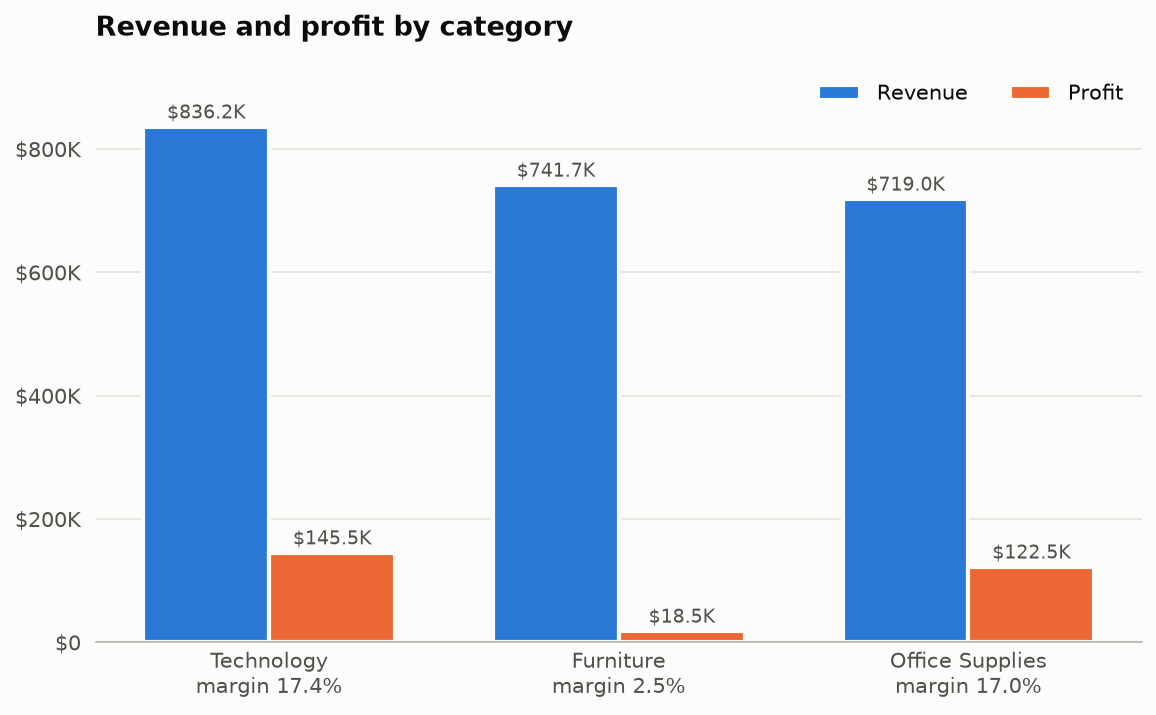
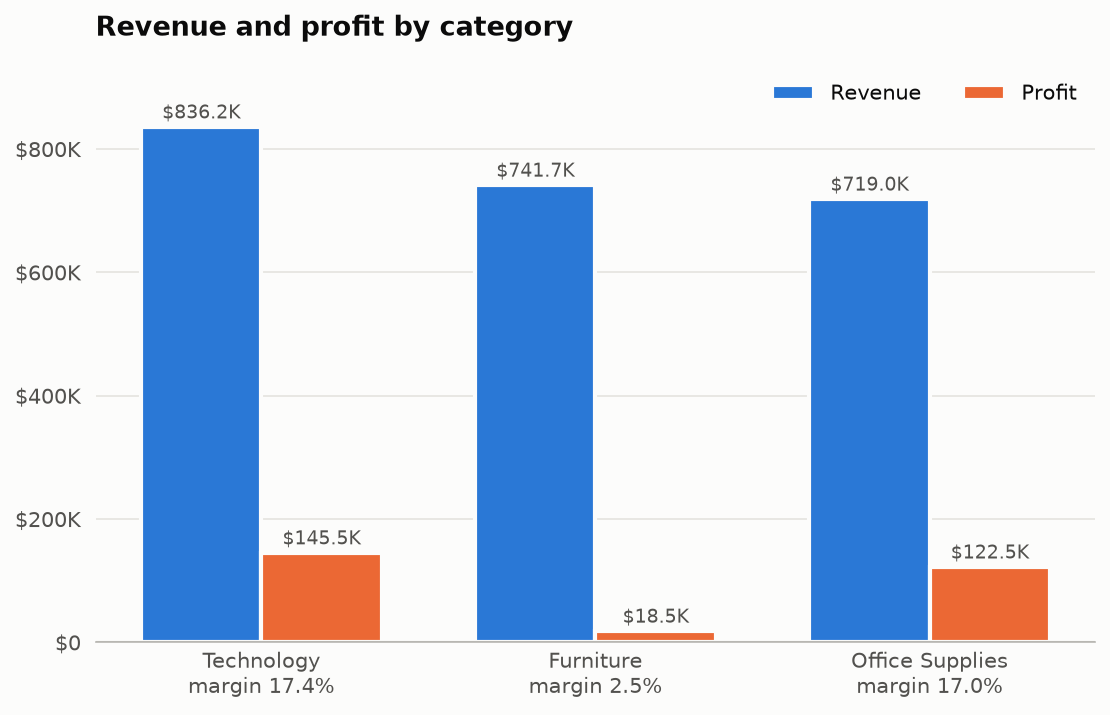
Phase 12: one-command pipeline, portfolio README

diff --git a/scripts/run_pipeline.py b/scripts/run_pipeline.py
@@ -1,0 +1,80 @@
+"""Run the whole SalesInsight project with one command.
+
+Run from the project root:
+    python scripts/run_pipeline.py                  # every step
+    python scripts/run_pipeline.py --skip-database  # without MySQL (e.g. MySQL not running)
+    python scripts/run_pipeline.py --with-tests     # run the test suite first
+
+Each step runs as its own Python process. The pipeline stops at the first
+step that fails, so later steps never use broken or missing data.
+"""
+
+from __future__ import annotations
+
+import argparse
+import subprocess
+import sys
+import time
+from pathlib import Path
+
+PROJECT_ROOT = Path(__file__).resolve().parents[1]
+
+# (script, description, needs MySQL)
+STEPS: list[tuple[str, str, bool]] = [
+    ("check_setup.py", "Check environment and MySQL connection", True),
+    ("run_validation.py", "Phase 2  - Load and validate raw data", False),
+    ("run_cleaning.py", "Phase 3  - Clean data and add features", False),
+    ("run_database.py", "Phase 4  - Load MySQL star schema and run SQL queries", True),
+    ("run_kpis.py", "Phase 5  - Revenue and profit KPIs (Q1)", False),
+    ("run_trends.py", "Phase 6  - Monthly and yearly trends (Q2)", False),
+    ("run_products.py", "Phase 7  - Products and categories (Q3, Q4)", False),
+    ("run_regions.py", "Phase 8  - Regions and states (Q5)", False),
+    ("run_customers.py", "Phase 9  - Customer behaviour and RFM (Q6)", False),
+    ("run_statistics.py", "Phase 10 - Statistical tests", False),
+    ("run_insights.py", "Phase 11 - Insights report and recommendations (Q7)", False),
+]
+
+
+def build_steps(skip_database: bool = False) -> list[tuple[str, str]]:
+    return [(script, desc) for script, desc, needs_db in STEPS if not (skip_database and needs_db)]
+
+
+def run(command: list[str], label: str) -> tuple[bool, float]:
+    print(f"\n=== {label} ===", flush=True)
+    start = time.perf_counter()
+    result = subprocess.run(command, cwd=PROJECT_ROOT)
+    return result.returncode == 0, time.perf_counter() - start
+
+
+def main(argv: list[str] | None = None) -> int:
+    parser = argparse.ArgumentParser(description="Run the SalesInsight pipeline.")
+    parser.add_argument("--skip-database", action="store_true", help="skip the steps that need MySQL")
+    parser.add_argument("--with-tests", action="store_true", help="run pytest before the pipeline")
+    args = parser.parse_args(argv)
+
+    timings: list[tuple[str, float]] = []
+    if args.with_tests:
+        ok, seconds = run([sys.executable, "-m", "pytest", "-q"], "Test suite")
+        timings.append(("Test suite", seconds))
+        if not ok:
+            print("\nTests failed - pipeline stopped.")
+            return 1
+
+    for script, description in build_steps(args.skip_database):
+        ok, seconds = run([sys.executable, str(PROJECT_ROOT / "scripts" / script)], description)
+        timings.append((description, seconds))
+        if not ok:
+            print(f"\nStep failed: {description} ({script}). Fix it and run the pipeline again.")
+            return 1
+
+    print("\n" + "=" * 70)
+    print("Pipeline complete")
+    for description, seconds in timings:
+        print(f"  {seconds:6.1f}s  {description}")
+    print(f"  {sum(s for _, s in timings):6.1f}s  TOTAL")
+    print("Report: reports/insights_report.md")
+    return 0
+
+
+if __name__ == "__main__":
+    sys.exit(main())

diff --git a/tests/test_pipeline.py b/tests/test_pipeline.py
@@ -1,0 +1,41 @@
+"""Phase 12 tests: the pipeline lists every script, in a valid order."""
+
+from __future__ import annotations
+
+import importlib.util
+
+from salesinsight import config
+
+spec = importlib.util.spec_from_file_location("run_pipeline", config.PROJECT_ROOT / "scripts" / "run_pipeline.py")
+pipeline = importlib.util.module_from_spec(spec)
+spec.loader.exec_module(pipeline)
+
+
+def test_every_step_script_exists():
+    for script, _, _ in pipeline.STEPS:
+        assert (config.PROJECT_ROOT / "scripts" / script).is_file(), script
+
+
+def test_cleaning_runs_before_every_analysis():
+    order = [s for s, _ in pipeline.build_steps()]
+    clean = order.index("run_cleaning.py")
+    for script in ("run_database.py", "run_kpis.py", "run_trends.py", "run_products.py",
+                   "run_regions.py", "run_customers.py", "run_statistics.py", "run_insights.py"):
+        assert order.index(script) > clean, script
+
+
+def test_insights_report_is_last():
+    assert pipeline.build_steps()[-1][0] == "run_insights.py"
+
+
+def test_database_runs_before_kpis():
+    # run_kpis.py cross-checks its numbers against the MySQL results
+    order = [s for s, _ in pipeline.build_steps()]
+    assert order.index("run_database.py") < order.index("run_kpis.py")
+
+
+def test_skip_database_removes_mysql_steps():
+    scripts = [s for s, _ in pipeline.build_steps(skip_database=True)]
+    assert "run_database.py" not in scripts
+    assert "check_setup.py" not in scripts
+    assert "run_cleaning.py" in scripts

diff --git a/README.md b/README.md
@@ -1,26 +1,176 @@
 # SalesInsight – Business Sales Analytics and Intelligence Platform
 
-Analyses the Superstore retail sales dataset with Python, Pandas, NumPy, SQL (MySQL), statistics, Matplotlib and Seaborn to answer:
+An end-to-end sales analytics project that turns ~10,000 raw retail order lines into tested, reproducible business insights, using **Python, Pandas, NumPy, SQL (MySQL), statistics, Matplotlib and Seaborn**.
 
-1. Total revenue and profit
-2. Monthly and yearly sales trends
-3. Best-selling products
-4. Category-wise performance
-5. Region-wise sales
-6. Customer purchasing behaviour
-7. Business insights and recommendations
+One command validates and cleans the data, loads a MySQL star schema, runs 21 SQL queries, analyses revenue, trends, products, regions and customers, tests every pattern statistically, and writes a business report with prioritised recommendations.
 
-> Status: Phase 1 (environment setup) complete. Full README in Phase 12.
+```
+python scripts/run_pipeline.py
+```
 
-## Quick start (Windows)
+**Full report:** [reports/insights_report.md](reports/insights_report.md)
+
+---
+
+## Key findings
+
+| | |
+|---|---|
+| **Revenue** | **$2.30M** over 2014-2017, growing **14.9% a year** (CAGR) |
+| **Profit** | **$286.4K**, a **12.5%** margin |
+| **Discounts** | **$566.6K** given away (19.8% of list price); **18.7%** of order lines lose money, **-$156.1K** in total |
+| **Regions** | **10 states lose money** (-$98.2K). Across states, discount rate and margin correlate at **-0.98** |
+| **Categories** | Technology and Office Supplies earn ~17% margins; **Furniture only 2.5%**, with **1 in 3 lines at a loss** at the same ~20% discount |
+| **Seasonality** | **November** is the peak month (index 184); **Q4 = 38.2%** of yearly revenue |
+| **Customers** | **98.5%** buy again; 2017 retention **87.5%**; but **99%** of 2017 revenue came from returning customers - few new ones |
+| **RFM** | **135 "At risk"** customers (once frequent, now inactive) hold **20.6%** of revenue |
+
+![Headline KPIs](reports/figures/05_kpi_tiles.png)
+
+### Deep discounts go with losses
+
+Lines with bigger discounts lose money far more often. The link is statistically tested (chi-square test, Spearman correlation) and also appears across states.
+
+![Share of loss-making lines by discount level](reports/figures/10_loss_rate_by_discount.png)
+
+![Discount vs margin by state](reports/figures/08_state_discount_vs_margin.png)
+
+### Where the losses are
+
+![Margin by sub-category and discount level](reports/figures/07_discount_margin_heatmap.png)
+
+### Seasonality
+
+![Revenue by month and year](reports/figures/06_revenue_heatmap.png)
+
+### Customer segments (RFM)
+
+![RFM customer segments](reports/figures/09_rfm_segments.png)
+
+## Recommendations
+
+Generated by rules from the data (see [the report](reports/insights_report.md) for evidence and impact estimates):
+
+1. **Cap discounts at 20%** and require approval above it - deep discounts are where losses concentrate.
+2. **Change the discount policy in the 10 loss-making states** (Texas, Ohio, Pennsylvania, Illinois, ...).
+3. **Reprice the loss-making sub-categories** (listed in the report) and raise the **Furniture** margin.
+4. **Win back the 135 "At risk" customers** before they become lost.
+5. **Grow the West** (fastest-growing, best margin) and repair **Central** (lowest margin, highest discount).
+6. **Plan stock and staff for the Q4 peak**; use margin-safe promotions in February.
+7. **Invest in new-customer acquisition** - growth currently relies almost entirely on existing customers.
+
+A statistical check also prevents a wrong conclusion: average order value fell from $499 (2014) to $435 (2017), but the **95% bootstrap confidence intervals overlap**, so the report does not claim a certain decline.
+
+---
+
+## What the project does
+
+```mermaid
+flowchart LR
+    A[Raw CSV<br/>9,994 rows] --> B[Validate<br/>19 checks]
+    B --> C[Clean + features<br/>9,993 rows, 35 columns]
+    C --> D[(MySQL<br/>star schema)]
+    D --> E[21 SQL queries]
+    C --> F[Pandas analysis<br/>KPIs, trends, products,<br/>regions, customers, RFM]
+    F --> G[Statistical tests<br/>p-values + effect sizes]
+    E -. reconciled .- F
+    F --> H[28 charts]
+    G --> I[Insights report +<br/>recommendations]
+    H --> I
+```
+
+| Phase | What | Main files |
+|---|---|---|
+| 1 | Environment, config, logging, setup check | `config.py`, `logger.py`, `scripts/check_setup.py` |
+| 2 | Load + 19 data-quality checks + data dictionary | `data_loader.py`, `validation.py` |
+| 3 | Cleaning (duplicates, postal codes, product keys) + 14 new columns | `cleaning.py`, `features.py` |
+| 4 | MySQL star schema, transactional load, 21 SQL queries, SQL = pandas reconciliation | `star_schema.py`, `database.py`, `sql/` |
+| 5 | Revenue and profit KPIs (Q1) | `kpis.py` |
+| 6 | Monthly/yearly trends, moving average, YoY, seasonality, CAGR (Q2) | `trends.py` |
+| 7 | Best sellers, Pareto 80/20, categories, discount vs margin (Q3, Q4) | `products.py` |
+| 8 | Regions, states, region x category (Q5) | `regions.py` |
+| 9 | Segments, repeat rate, retention, RFM segmentation (Q6) | `customers.py` |
+| 10 | Hypothesis tests, effect sizes, bootstrap confidence intervals | `stats_tests.py` |
+| 11 | Insights report and rule-based recommendations (Q7) | `insights.py` |
+| 12 | One-command pipeline, README | `scripts/run_pipeline.py` |
+
+## Technical highlights
+
+- **Data quality first:** 19 automated checks (schema, missing values, duplicates, date logic, value ranges, ID consistency). Found and fixed a duplicate record, 438 postal codes that had lost their leading zero, and 32 Product IDs shared by different products (handled with a surrogate `product_key`).
+- **Star schema in MySQL:** `fact_sales` + `dim_customer`, `dim_product`, `dim_location`; `DECIMAL` for money; foreign keys and indexes; the whole load runs in one transaction and rolls back on failure.
+- **Reconciliation:** row count, revenue, profit, quantity, orders and customers in MySQL must match pandas exactly, or the pipeline stops.
+- **Correct metrics:** average order value divides by distinct orders (not rows); growth after a $0 month is left blank; seasonality uses complete years only; RFM ties always get the same score.
+- **Statistics done properly:** non-parametric tests for skewed sales data, effect sizes next to every p-value (with 10,000 rows, tiny differences become "significant"), reproducible bootstrap intervals.
+- **Accessible charts:** one fixed colour-blind-checked palette (revenue = blue, profit = orange, customers = green), red/blue diverging scale for losses vs profits, one y-axis per chart.
+- **Tested:** 220+ pytest tests with hand-calculated expected values; database tests run on SQLite so no MySQL server is needed.
+- **Lightweight:** CPU only, runs in seconds, well under 1 GB of RAM.
+
+## Tech stack
+
+| Area | Tools |
+|---|---|
+| Language | Python 3.10+ |
+| Data | pandas, NumPy |
+| Database | MySQL 8, SQLAlchemy 2, PyMySQL |
+| Statistics | SciPy |
+| Visualisation | Matplotlib, Seaborn |
+| Testing | pytest |
+| Config | python-dotenv |
+
+## Project structure
+
+```
+SalesInsight/
+├── data/
+│   ├── raw/                  Superstore.csv (download from Kaggle; not in Git)
+│   └── processed/            sales_clean.csv (generated)
+├── sql/                      01_create_database.sql, 02_create_tables.sql, 03_analysis_queries.sql
+├── src/salesinsight/         all analysis code (one module per topic)
+├── scripts/                  one runnable script per phase + run_pipeline.py
+├── tests/                    pytest suite
+├── reports/
+│   ├── figures/              charts (PNG)
+│   ├── tables/               result tables (CSV)
+│   └── insights_report.md    the business report
+├── .env.example              MySQL settings template (real .env is not in Git)
+├── pyproject.toml
+└── requirements.txt
+```
+
+## How to run it
+
+**Requirements:** Python 3.10+, MySQL 8 (optional - use `--skip-database` without it).
 
 ```powershell
+# 1. Get the code and install
+git clone https://github.com/Kalai-coder-DS/SalesInsight.git
+cd SalesInsight
 py -m venv .venv
-.\.venv\Scripts\Activate.ps1
-python -m pip install --upgrade pip
-pip install -r requirements.txt
-pip install -e .
+.\.venv\Scripts\python.exe -m pip install -r requirements.txt
+.\.venv\Scripts\python.exe -m pip install -e .
+
+# 2. Add the data
+#    Download "Superstore Dataset" (vivek468) from Kaggle and save it as data/raw/Superstore.csv
+
+# 3. MySQL settings (skip if you use --skip-database)
 copy .env.example .env      # then put your MySQL password in .env
-python scripts/check_setup.py
-pytest
+
+# 4. Run everything
+.\.venv\Scripts\python.exe scripts\run_pipeline.py --with-tests
 ```
+
+On macOS/Linux use `python3 -m venv .venv`, `source .venv/bin/activate` and `cp .env.example .env`.
+
+## Dataset
+
+[Superstore Dataset](https://www.kaggle.com/datasets/vivek468/superstore-dataset-final) on Kaggle: 9,994 order lines of a US retailer, 2014-2017, 21 columns (orders, customers, products, locations, sales, quantity, discount, profit). The dataset is a public sample; findings describe this data, not a specific real company.
+
+## Limitations
+
+- No cost breakdown in the data, so low margins cannot be split into supplier, shipping or return costs.
+- Discounts and losses are strongly associated, but proving how much a discount cap would recover needs a controlled pricing test.
+- Impact estimates in the report are upper bounds that assume sales volume stays the same.
+
+## Author
+
+**Kalaiyarasi** - [GitHub](https://github.com/Kalai-coder-DS)
